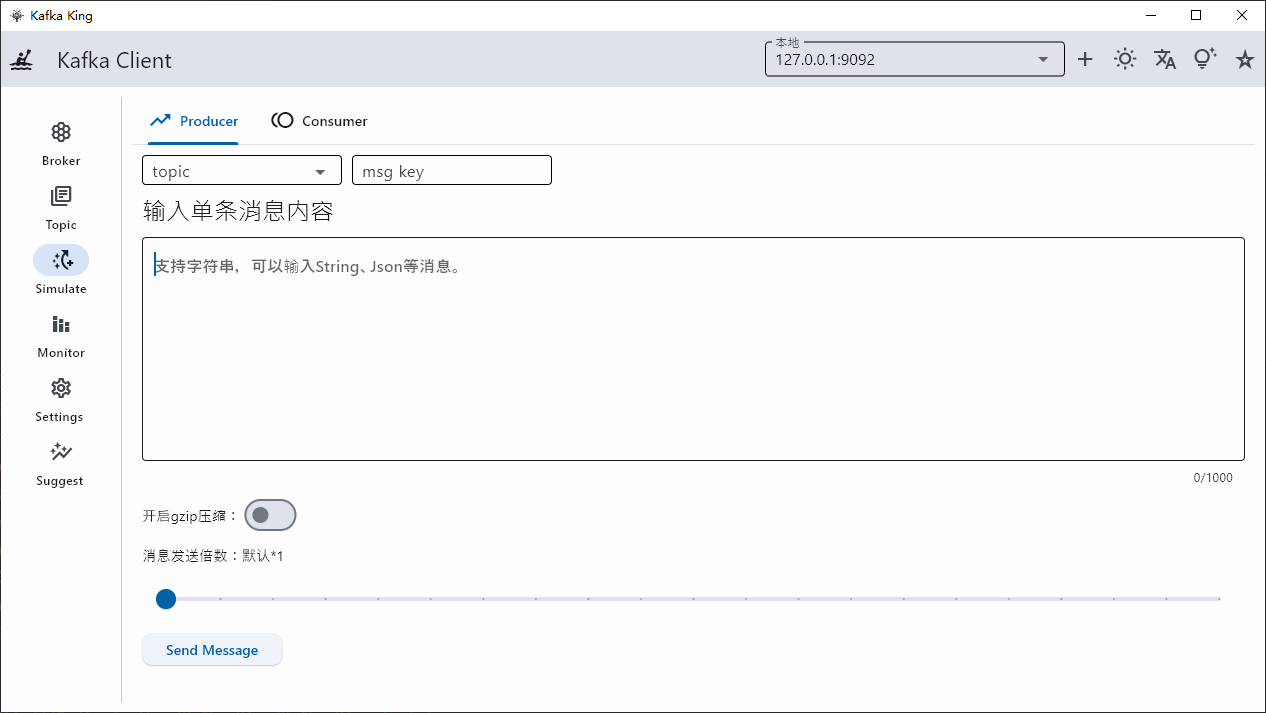
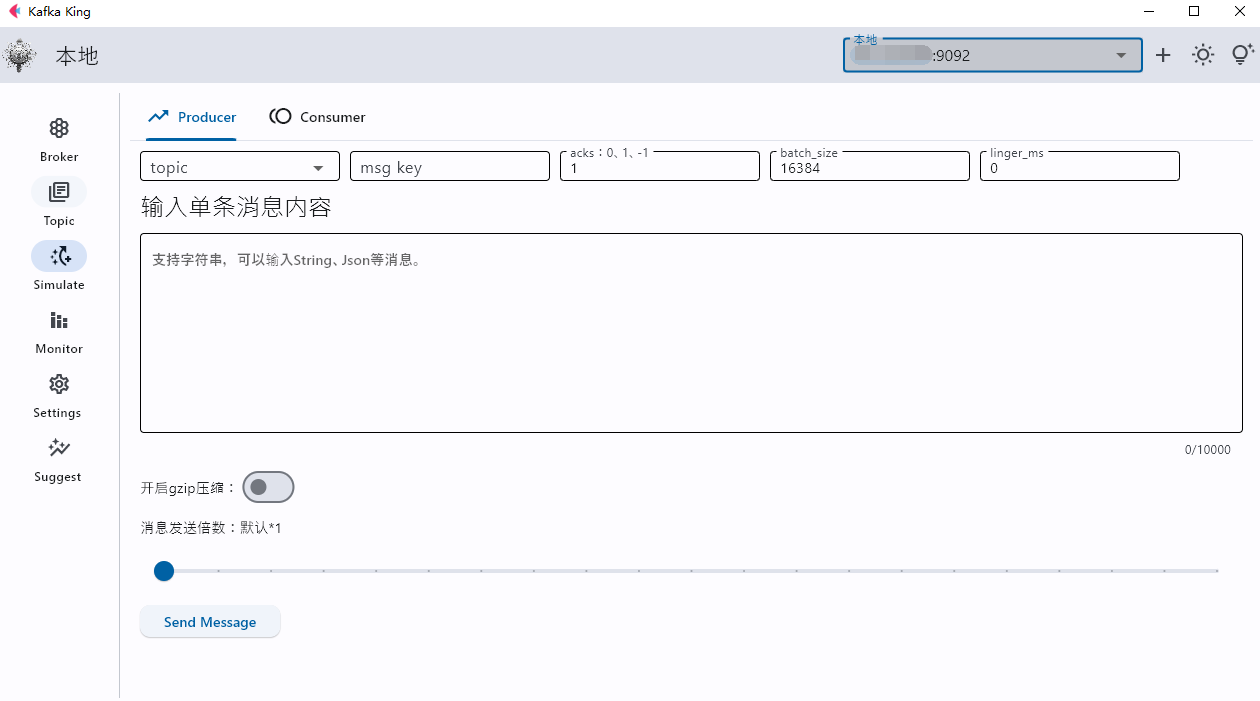
add：增加模拟者参数

diff --git a/views/simulate.py b/views/simulate.py
@@ -33,20 +33,44 @@ class Simulate(object):
             # on_change=self.click_partition_topic_dd_onchange,
             **dd_common_configs
         )
+        input_kwargs = {
+            "width": 200,
+            "height": 30,
+            "text_size": 14,
+            "content_padding": 10
+        }
 
         # msg key
         self.producer_msg_key_input = ft.TextField(
             label="msg key",
-            width=200, height=30, text_size=14, content_padding=10
+            **input_kwargs
+        )
+        self.producer_acks_input = ft.TextField(
+            label="acks：0、1、-1",
+            value="1",
+            **input_kwargs
+        )
+
+        self.producer_batch_size_input = ft.TextField(
+            label="batch_size",
+            value="16384",
+            **input_kwargs
+
+        )
+        self.producer_linger_ms_input = ft.TextField(
+            label="linger_ms",
+            value="0",
+            **input_kwargs
         )
 
         # 消息输入框
         self.producer_send_input = ft.TextField(
             multiline=True,
             keyboard_type=ft.KeyboardType.MULTILINE,
-            max_length=1000,
+            max_length=10000,
             min_lines=8,
             max_lines=8,
+            text_size=14,
             hint_text="支持字符串，可以输入String、Json等消息。"
         )
 
@@ -79,14 +103,8 @@ class Simulate(object):
             label="fetch size",
             value="10",
             keyboard_type=ft.KeyboardType.NUMBER,
-            width=200, height=30, text_size=14, content_padding=10
+            **input_kwargs
         )
-
-        # consumer groups input
-        # self.consumer_groups_input = ft.TextField(
-        #     label="new consumer group",
-        #     width=200, height=30, text_size=14, content_padding=10
-        # )
 
         # consumer fetch msg button
         self.consumer_fetch_msg_button = S_Button(
@@ -142,6 +160,9 @@ class Simulate(object):
                 ft.Row([
                     self.producer_topic_dd,
                     self.producer_msg_key_input,
+                    self.producer_acks_input,
+                    self.producer_batch_size_input,
+                    self.producer_linger_ms_input
                 ]),
                 ft.Markdown(value="""# 输入单条消息内容"""),
                 # msg input
@@ -187,11 +208,21 @@ class Simulate(object):
         发送消息
         乘以倍数，and 是否压缩
         """
-        topic = self.producer_topic_dd.value
-        msg = self.producer_send_input.value
-        enable_gzip = self.producer_compress_switch.value
-        msg_multiplier = int(self.producer_slider.value)
-        msg_key = self.producer_msg_key_input.value.rstrip()
+        try:
+            topic = self.producer_topic_dd.value
+            msg = self.producer_send_input.value
+            enable_gzip = self.producer_compress_switch.value
+            msg_multiplier = int(self.producer_slider.value)
+            msg_key = self.producer_msg_key_input.value.rstrip()
+            acks = int(self.producer_acks_input.value.rstrip())
+            batch_size = int(self.producer_batch_size_input.value.rstrip())
+            linger_ms = int(self.producer_linger_ms_input.value.rstrip())
+
+            if acks not in [0, 1, -1] or linger_ms < 0 or batch_size < 0 or msg is None:
+                raise Exception("参数填写不正确")
+        except:
+            open_snack_bar(e.page, e.page.snack_bar, "参数填写不正确")
+            return
 
         st = time.time()
         res = "发送成功"
@@ -202,6 +233,9 @@ class Simulate(object):
                 enable_gzip=enable_gzip,
                 msg_multiplier=msg_multiplier,
                 msg_key=msg_key.encode('utf-8'),
+                acks=acks,
+                batch_size=batch_size,
+                linger_ms=linger_ms
             )
         except Exception as e_:
             traceback.print_exc()

diff --git a/views/topic.py b/views/topic.py
@@ -40,6 +40,7 @@ class Topic(object):
             max_length=1000,
             max_lines=10,
             min_lines=2,
+            helper_text="分区数后续可以增加但是不能减少; 0 < 副本因子 <= broker数（必须）；"
         )
         self.create_topic_modal = ft.AlertDialog(
             modal=True,
@@ -140,7 +141,7 @@ class Topic(object):
                 ft.DataColumn(S_Text("ID")),
                 ft.DataColumn(S_Text("Topic")),
                 ft.DataColumn(S_Text("分区数")),
-                ft.DataColumn(S_Text("积压量")),
+                ft.DataColumn(S_Text("积压量(先选择组)")),
                 ft.DataColumn(S_Text("查看配置")),
                 ft.DataColumn(S_Text("删除")),
             ],
@@ -178,7 +179,7 @@ class Topic(object):
                                 icon_color="#DA3A66",
                                 tooltip=f"删除{topic_name_}",
                             )
-                        ) if not topic.get('is_internal') else ft.DataCell(ft.Text("not allowed"))
+                        ) if not topic.get('is_internal') else ft.DataCell(ft.Text("禁止"))  # not allowed
                     ],
                 )
             )

diff --git a/service/kafka_service.py b/service/kafka_service.py
@@ -126,12 +126,13 @@ class KafkaService:
             traceback.print_exc()
         return False
 
-    def send_msgs(self, topic, msg: bytes, enable_gzip=False, msg_multiplier=1, msg_key=None):
+    def send_msgs(self, topic, msg: bytes, enable_gzip=False, msg_multiplier=1, msg_key=None, **kwargs):
         """
         send msgs发送消息
         """
         config = {
             "bootstrap_servers": self.bootstrap_servers,
+            **kwargs
         }
         if enable_gzip:
             config['compression_type'] = 'gzip'

diff --git a/README.md b/README.md
@@ -16,7 +16,7 @@
 - 创建主题（支持批量）、删除主题、支持根据消费者组统计每个topic的消息积压量（完成）
 - 支持查看topic的分区的详细信息，并为主题添加额外的分区（完成）
 - 支持查看每个分区的消息offset（完成）
-- 支持模拟生产者，批量发送消息，是否开启gzip压缩（完成）
+- 支持模拟生产者，批量发送消息，是否开启gzip压缩、acks、batch_size、liner_ms，你可以用来做性能测试（完成）
 - 支持模拟消费者，按照内置的组进行指定size的消费（完成）
 - 监控、告警（开发中）
 - 多语言支持（开发中）
@@ -46,7 +46,7 @@
 ![](assets/snap/p3.png)
 
 ## 模拟生产者消费者
-- 支持模拟生产者，批量发送消息，是否开启gzip压缩
+- 支持模拟生产者，批量发送消息，是否开启gzip压缩、acks、batch_size、liner_ms，你可以用来做性能测试
 - 支持模拟消费者，按照内置的组进行指定size的消费
 
 ![](assets/snap/p8.png)
